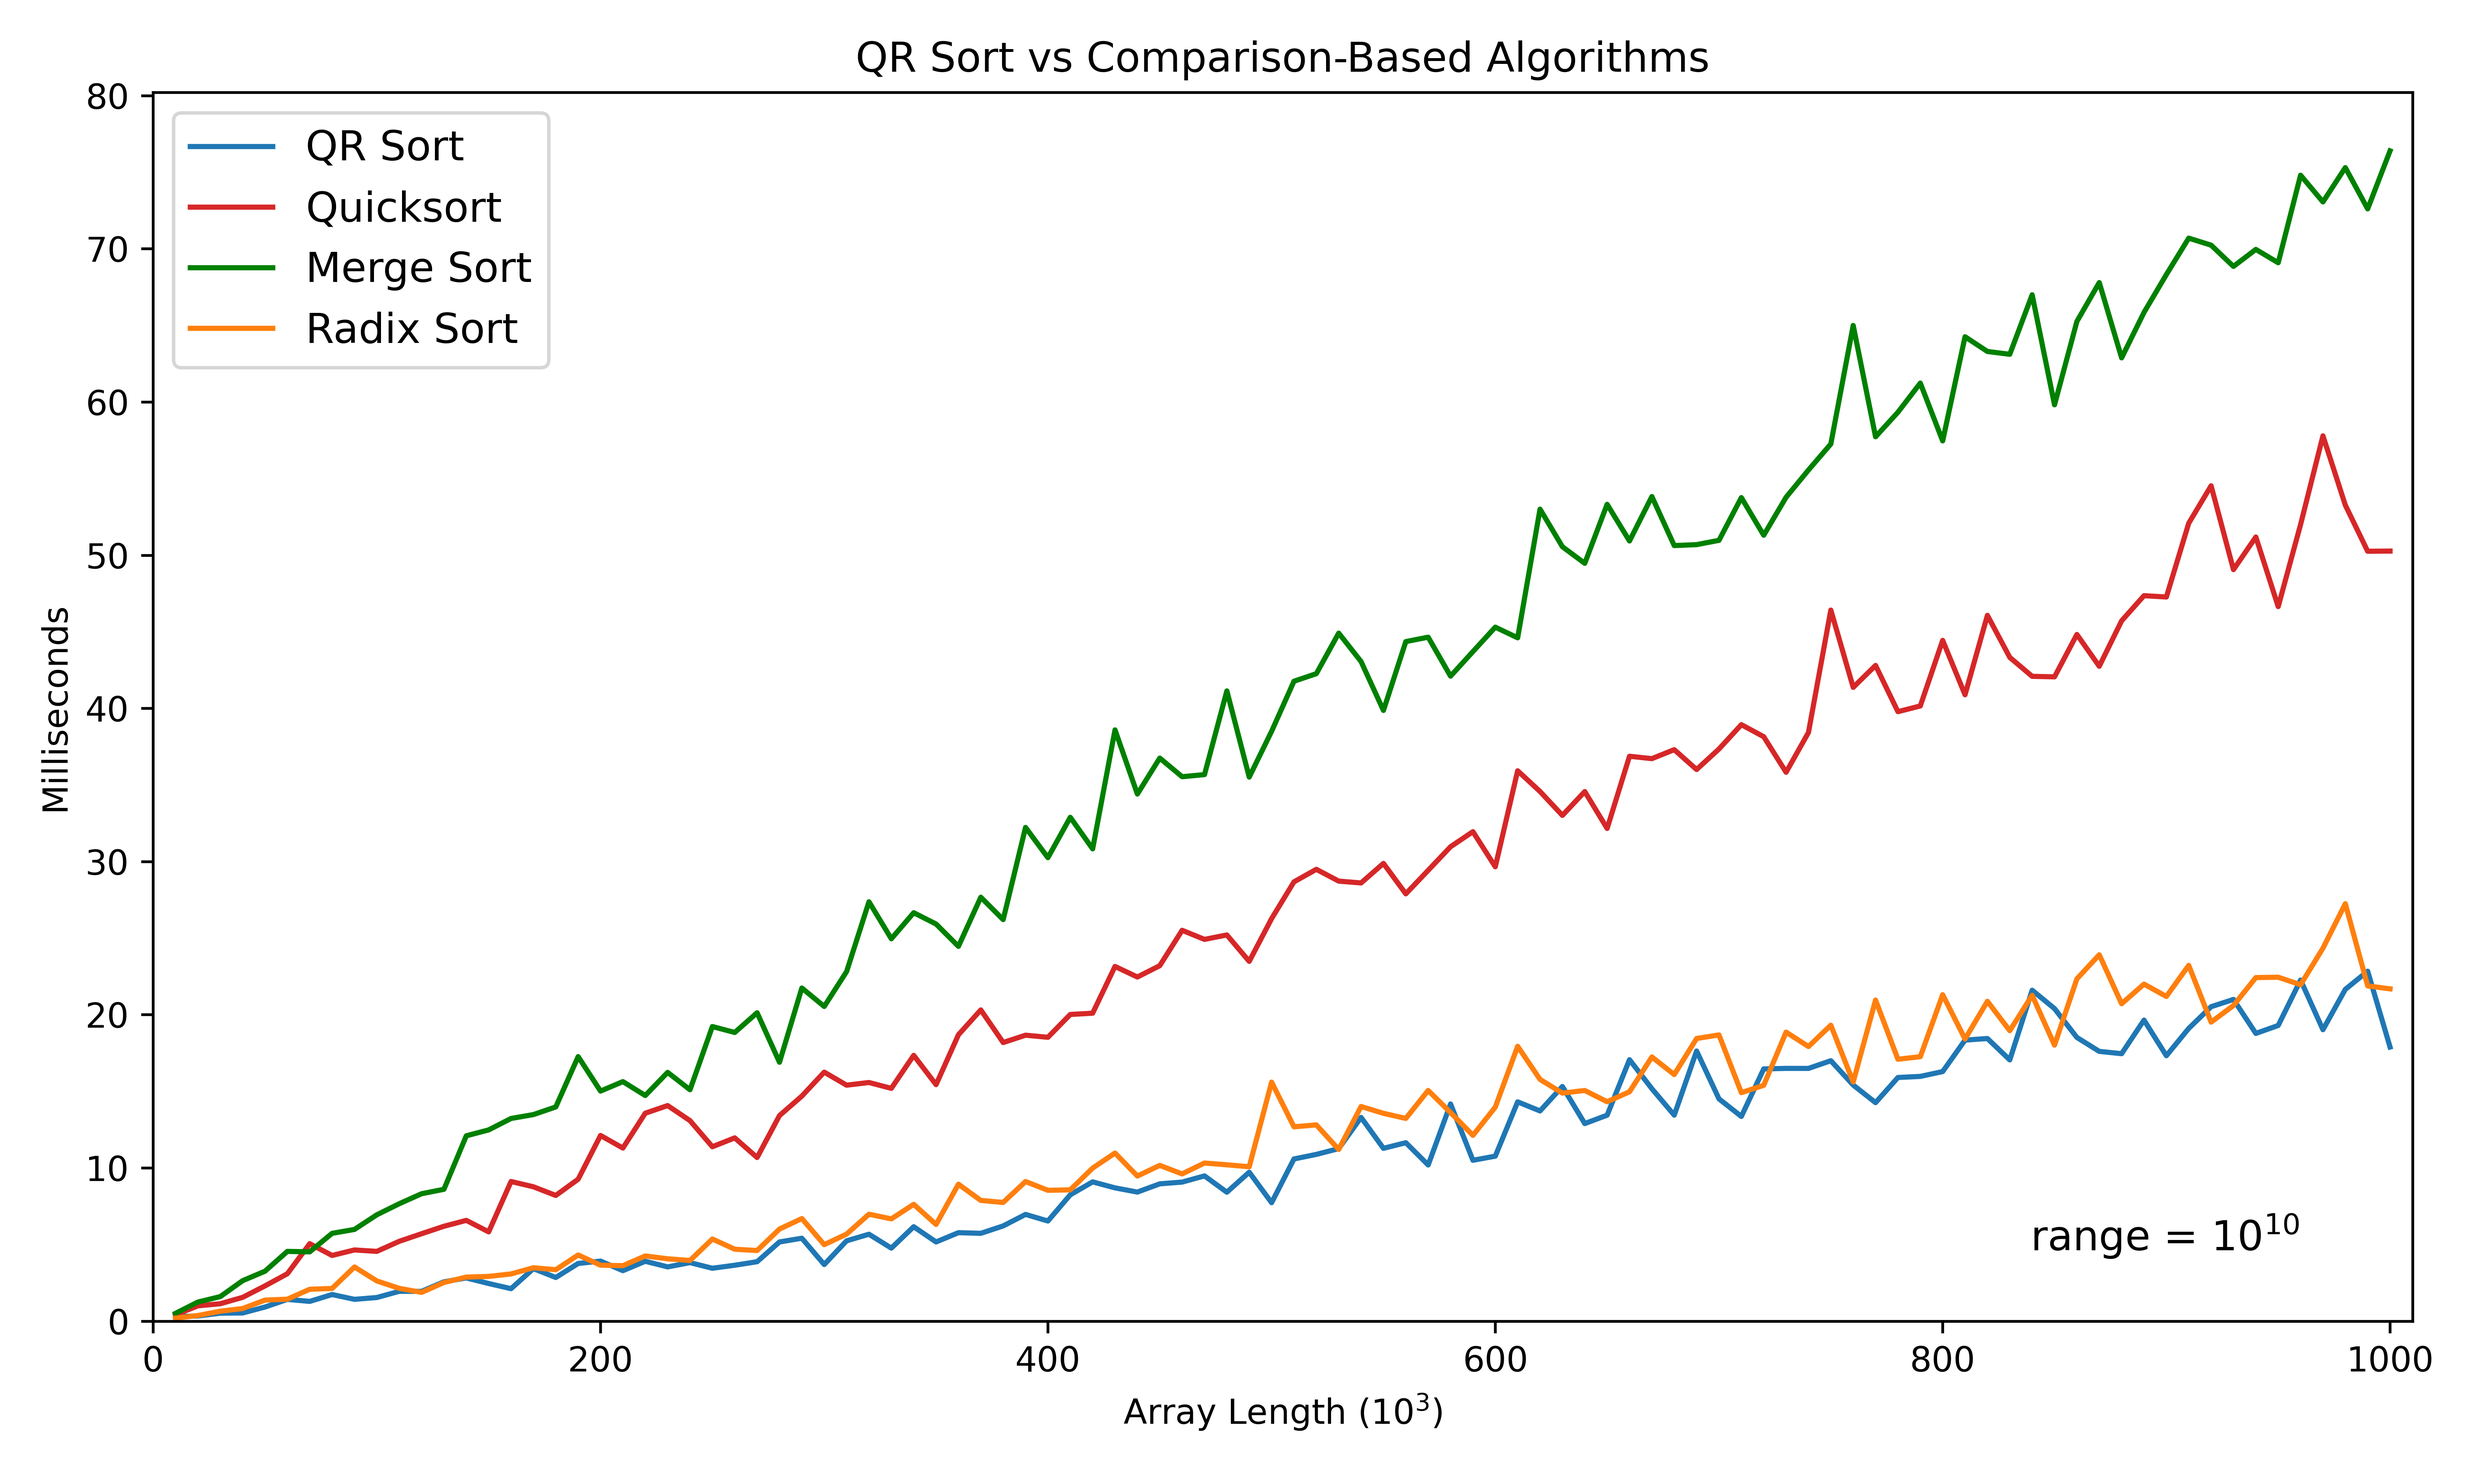
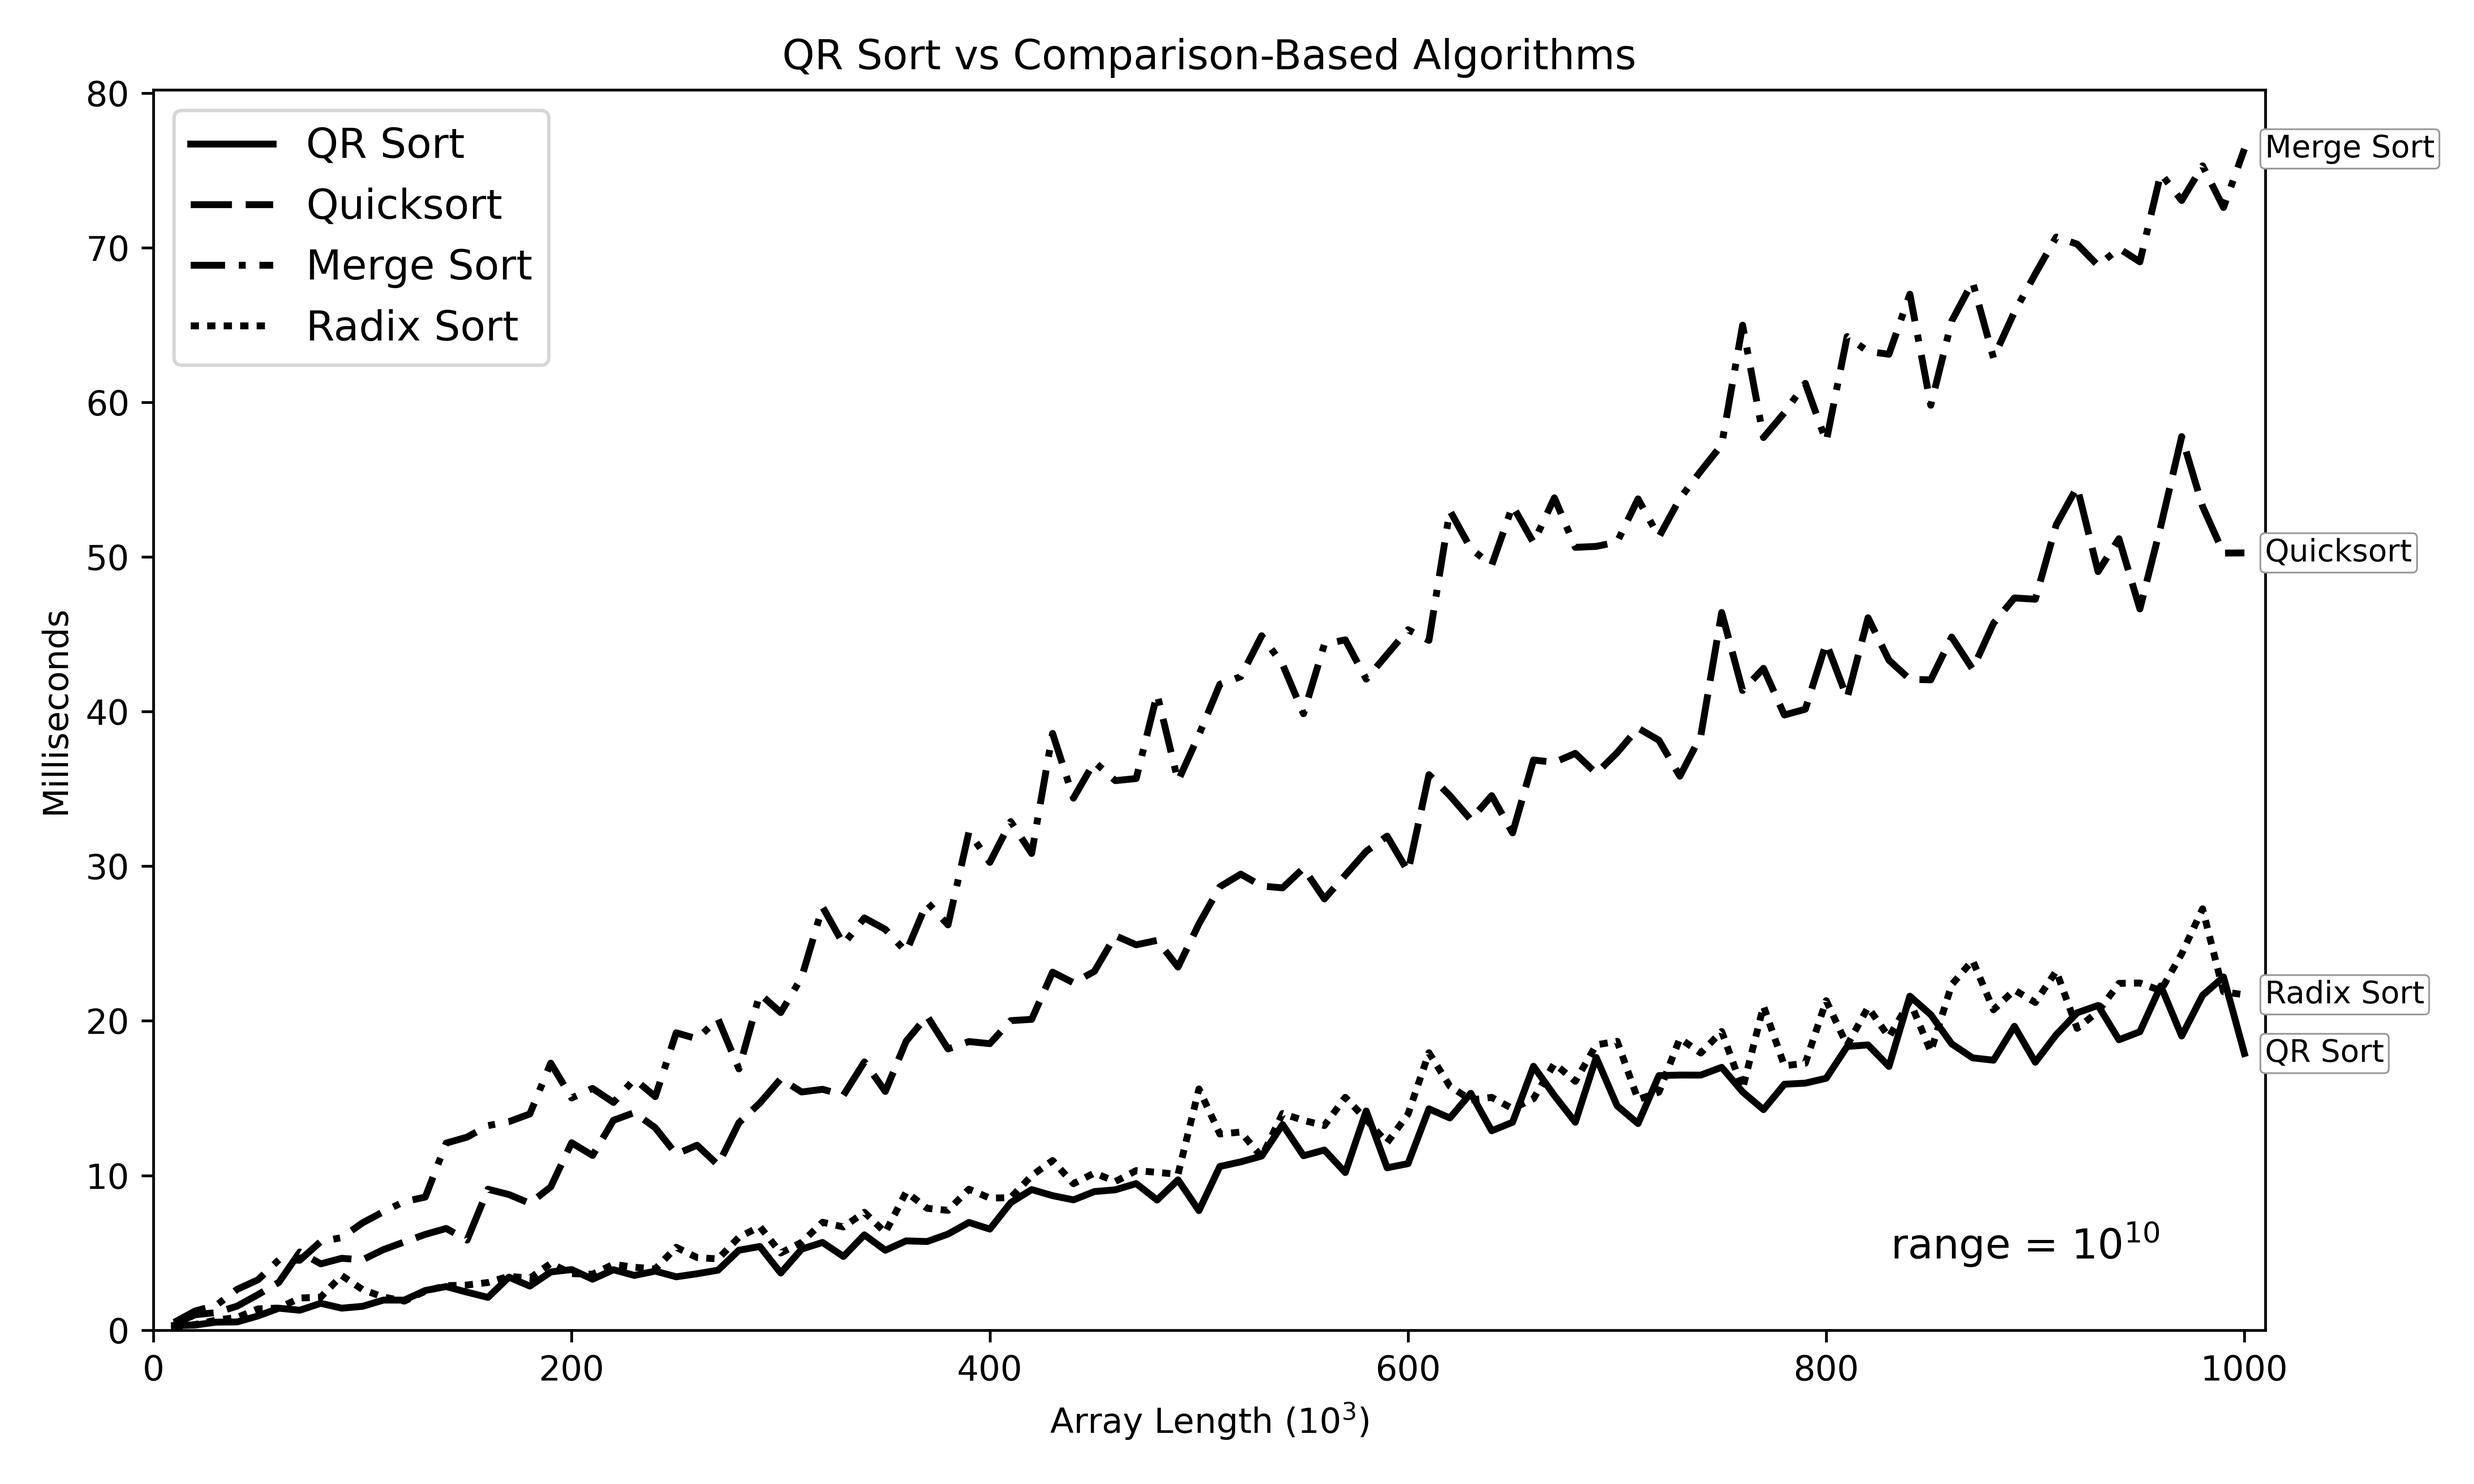
Updated figure generation code - now black and white :(, differentiated by linestyle

diff --git a/experiment_graph_maker.py b/experiment_graph_maker.py
@@ -2,25 +2,31 @@ import matplotlib.pyplot as plt
 import pandas as pd
 from typing import List, Optional
 
-color_map = {
-    "QR Sort": "C0",
-    "Radix Sort": "C1",
-    "Counting Sort": "C2",
-    "Quicksort": "C3",
-    "Merge Sort": "green"
+FIGURE_DPI = 600
+
+# Monochrome encoding: all black, identity via dash patterns
+pattern_map = {
+    "QR Sort": (None, None),          # solid
+    "Radix Sort": (0, (1.2, 1.2)),    # dotted
+    "Counting Sort": (0, (3, 2, 1.2, 2)),  # dash-dot
+    "Quicksort": (0, (6, 2)),         # dashed
+    "Merge Sort": (0, (5, 2, 1, 2))   # long dash, short dash
 }
 
 
-
-def plot_from_csv(ax, csv_file: str, x_col: str, include_cols: Optional[List[str]] = None, x_scale: float = 1.0) -> float:
+def plot_from_csv(ax, csv_file: str, x_col: str,
+                  include_cols: Optional[List[str]] = None,
+                  x_scale: float = 1.0,
+                  add_labels: bool = False) -> float:
     """
-    Plot specified columns from a CSV file onto a given Axes subplot, preserving column order.
+    Plot specified columns from a CSV file onto a given Axes subplot.
 
     :param ax: matplotlib Axes for plotting
     :param csv_file: Path to CSV file
     :param x_col: Column name for x-axis data
     :param include_cols: List of column names to include in plotting (in order). If None, include all except x_col.
     :param x_scale: Scaling factor applied to x-axis values
+    :param add_labels: Whether to add direct end-labels on lines
     :return: Maximum y-value among plotted columns
     """
     df = pd.read_csv(csv_file)
@@ -33,21 +39,35 @@ def plot_from_csv(ax, csv_file: str, x_col: str, include_cols: Optional[List[str
 
     for col in include_cols:
         y_values = df[col] / 1000  # Convert to milliseconds
-        ax.plot(x_values, y_values, label=col, color=color_map[col])
+
+        ax.plot(
+            x_values,
+            y_values,
+            label=col,
+            color="black",
+            linestyle="-" if pattern_map[col] == (None, None) else (0, pattern_map[col][1]),
+            linewidth=2.0,
+        )
+
+        if add_labels:
+            ax.annotate(
+                col,
+                xy=(x_values.iloc[-1], y_values.iloc[-1]),
+                xytext=(6, 0),
+                textcoords="offset points",
+                va="center",
+                fontsize=9,
+                bbox=dict(boxstyle="round,pad=0.15", fc="white", ec="0.6", lw=0.5)
+            )
+
         max_y = max(max_y, y_values.max())
 
     return max_y
 
 
-
 def add_text_to_ax(ax, text, pos_x=0.95, pos_y=0.05):
     """
     Add annotation text to an Axes subplot in the bottom right.
-
-    :param ax: matplotlib Axes to annotate
-    :param text: Text to add
-    :param pos_x: X-axis position in axes coordinates (default = 0.95)
-    :param pos_y: Y-axis position in axes coordinates (default = 0.05)
     """
     ax.text(pos_x, pos_y, text, ha='right', va='bottom', transform=ax.transAxes,
             fontsize=12, color='black',
@@ -56,7 +76,7 @@ def add_text_to_ax(ax, text, pos_x=0.95, pos_y=0.05):
 
 def make_qr_rs_graph():
     """
-    Main function to generate and save the plots.
+    Generate QR vs Radix plots with legends.
     """
     file_paths = [
         ("./results_qr_rs/0min_value-100000max_value.csv", "range = $10^5$"),
@@ -67,7 +87,7 @@ def make_qr_rs_graph():
         ("./results_qr_rs/0min_value-10000000000max_value.csv", "range = $10^{10}$"),
     ]
 
-    labels = ["A", "B", "C", "D", "E", "F"]#, "G", "H"]
+    labels = ["A", "B", "C", "D", "E", "F"]
     x_col = "Length"
     columns_to_plot = ["QR Sort", "Radix Sort"]
 
@@ -75,7 +95,7 @@ def make_qr_rs_graph():
     max_y_values = []
 
     for ax, (csv_file, m_text), label in zip(axes.flatten(), file_paths, labels):
-        max_y = plot_from_csv(ax, csv_file, x_col, columns_to_plot, x_scale=1e3)
+        max_y = plot_from_csv(ax, csv_file, x_col, columns_to_plot, x_scale=1e3, add_labels=False)
         max_y_values.append(max_y)
         ax.set_xlabel("Array Length ($10^3$)")
         ax.set_ylabel("Milliseconds")
@@ -84,17 +104,20 @@ def make_qr_rs_graph():
 
     global_max_y = max(max_y_values)
     for ax in axes.flatten():
-        ax.set_xlim(0, 1_010)  # Since x_scale=1e3, this corresponds to 1,000,000 in actual data
+        ax.set_xlim(0, 1_010)
         ax.set_ylim(0, global_max_y * 1.05)
 
     axes[0, 0].legend(loc='upper left', fontsize=12)
 
     fig.tight_layout()
-    fig.savefig("figure_qr_vs_radix_6.png", dpi=600)
+    fig.savefig("figure_qr_vs_radix_6.png", dpi=FIGURE_DPI)
     fig.show()
 
 
 def make_qr_qs_ms_graph():
+    """
+    Generate QR vs comparison-based plots (with optional direct labels).
+    """
     filepath = "results_qr_ms_qs/0min_value-10000000000max_value.csv"
 
     x_col = "Length"
@@ -102,19 +125,19 @@ def make_qr_qs_ms_graph():
 
     fig, ax = plt.subplots(figsize=(10, 6))
 
-    max_y = plot_from_csv(ax, filepath, x_col, columns_to_plot, x_scale=1e3)
+    max_y = plot_from_csv(ax, filepath, x_col, columns_to_plot, x_scale=1e3, add_labels=True)
     ax.set_xlabel("Array Length ($10^3$)")
     ax.set_ylabel("Milliseconds")
-    ax.set_title(f"QR Sort vs Comparison-Based Algorithms")
+    ax.set_title("QR Sort vs Comparison-Based Algorithms")
     add_text_to_ax(ax, "range = $10^{10}$")
 
-    ax.set_xlim(0, 1_010)  # Since x_scale=1e3, this corresponds to 1,000,000 in actual data
+    ax.set_xlim(0, 1_010)
     ax.set_ylim(0, max_y * 1.05)
 
     ax.legend(loc='upper left', fontsize=12)
 
     fig.tight_layout()
-    fig.savefig("comparison_based_algs.png", dpi=600)
+    fig.savefig("comparison_based_algs.png", dpi=FIGURE_DPI)
     fig.show()
 
 
